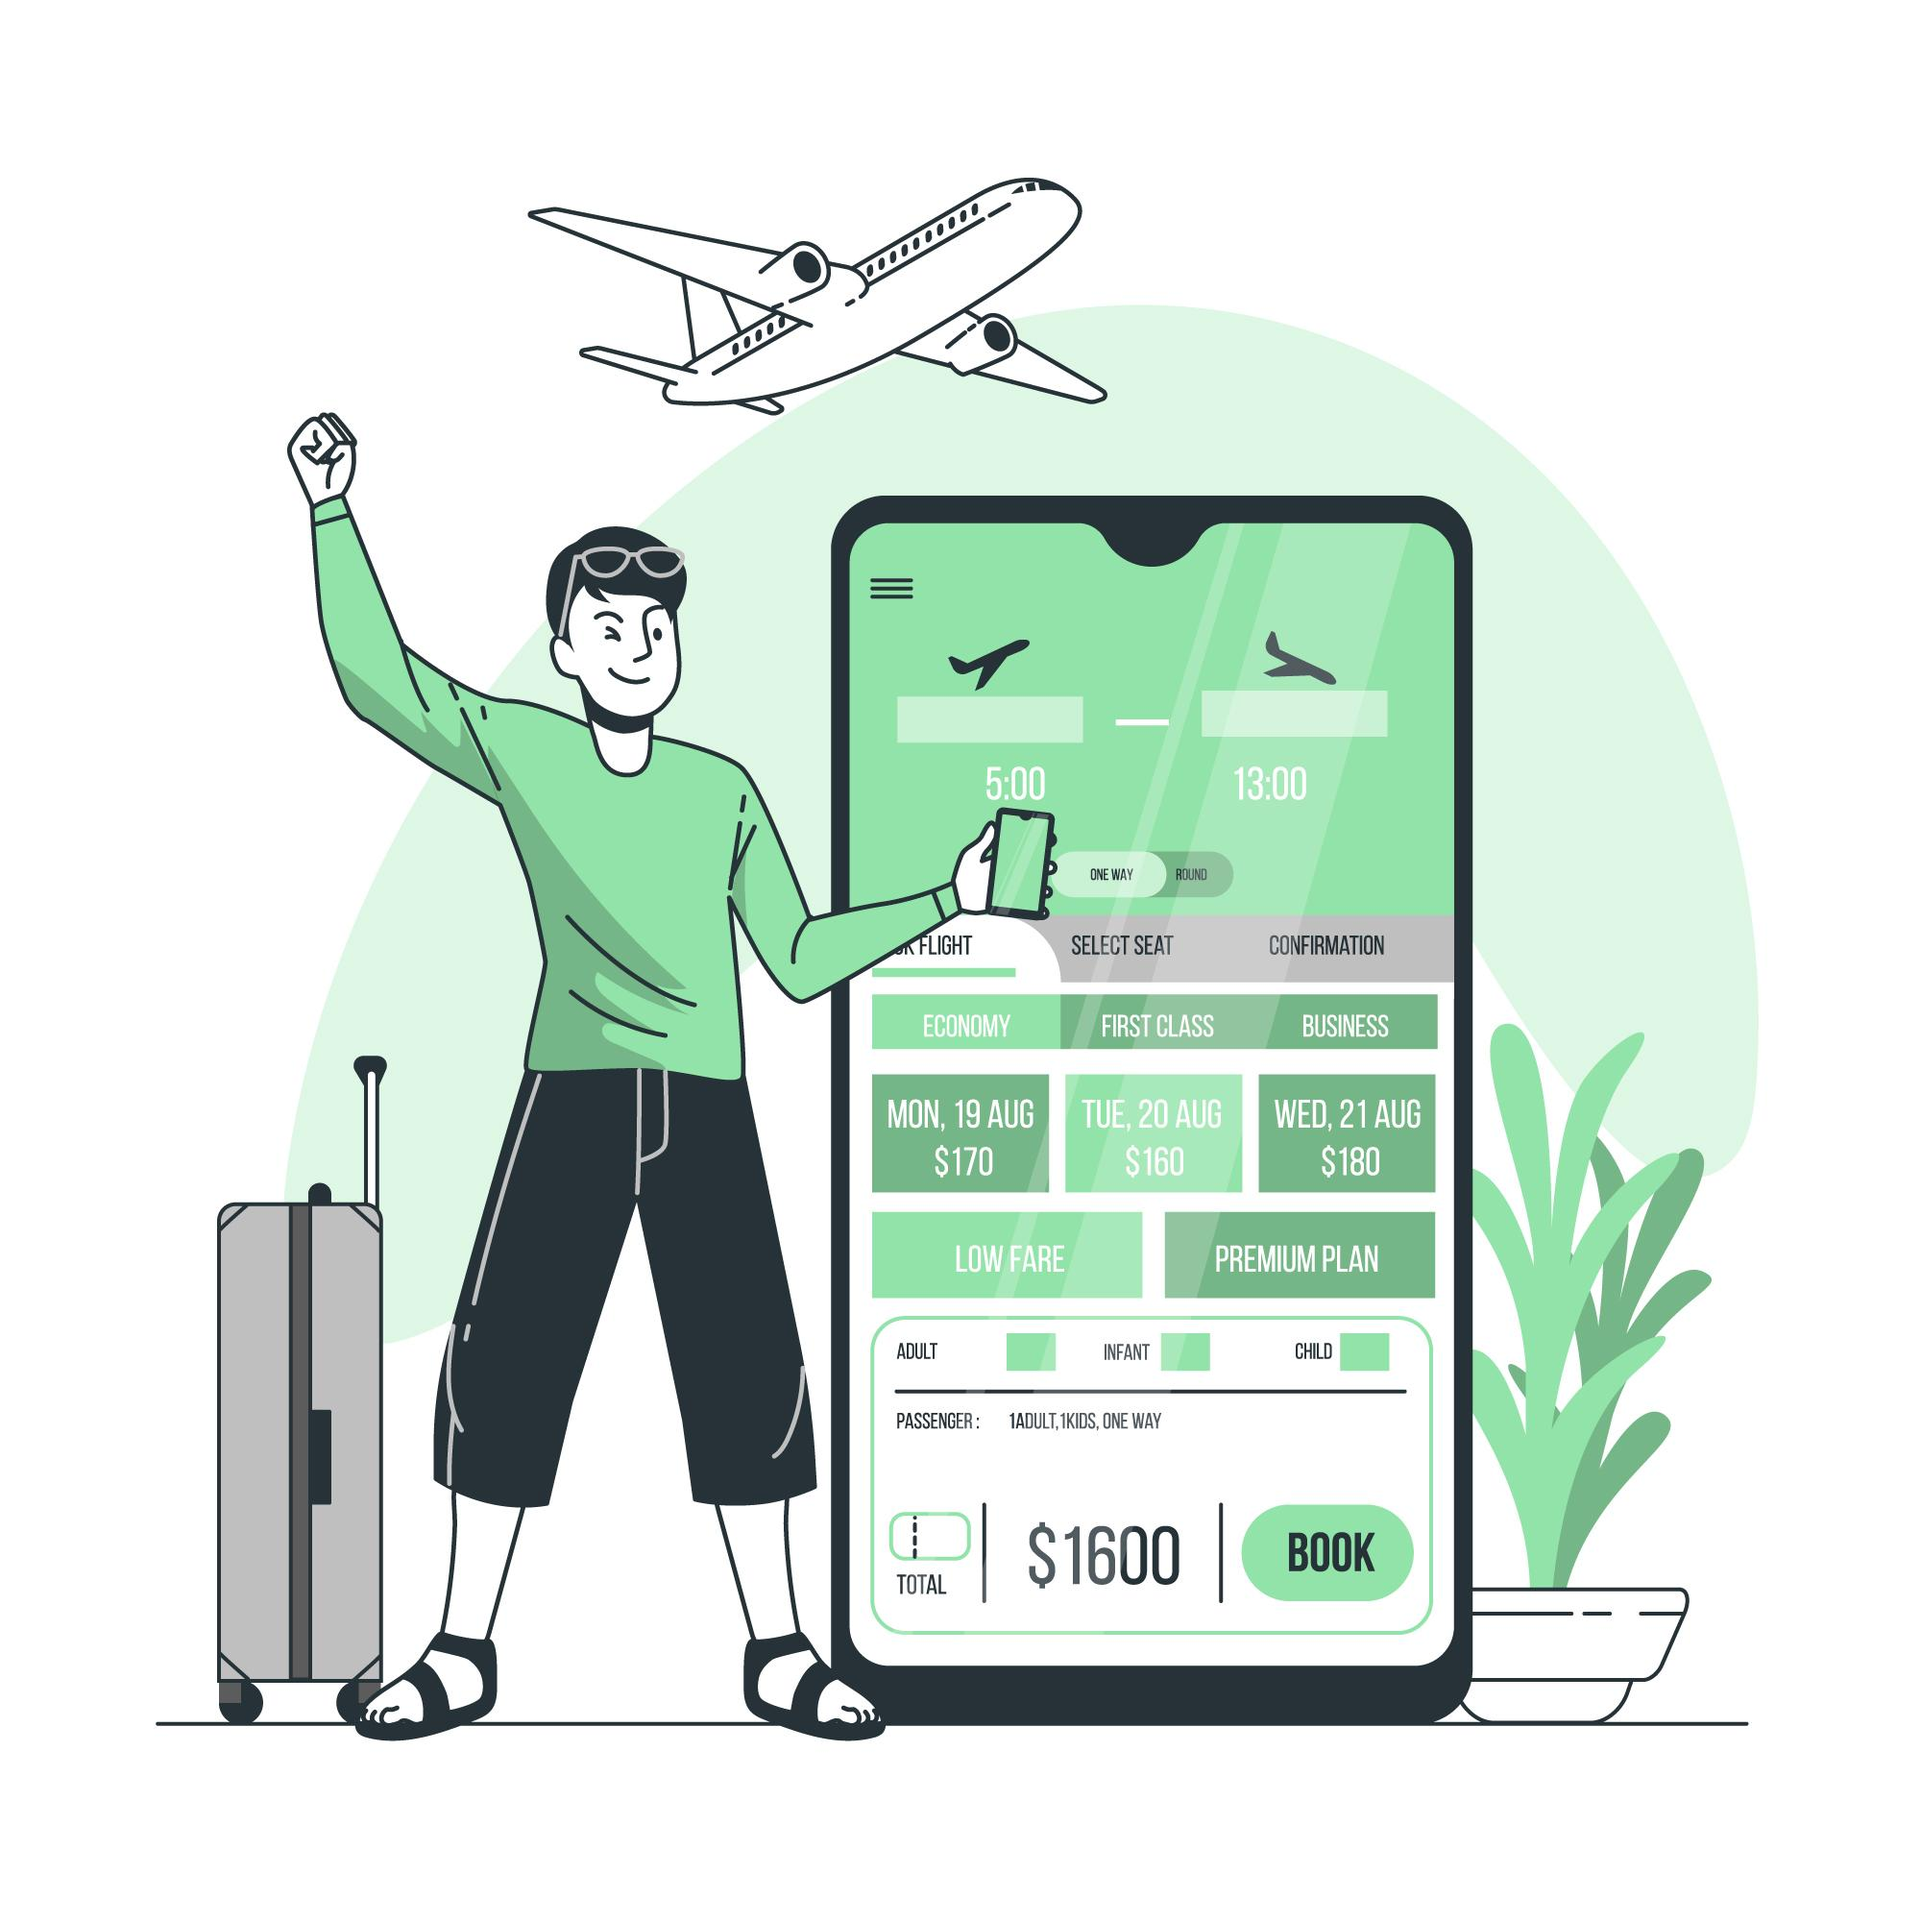
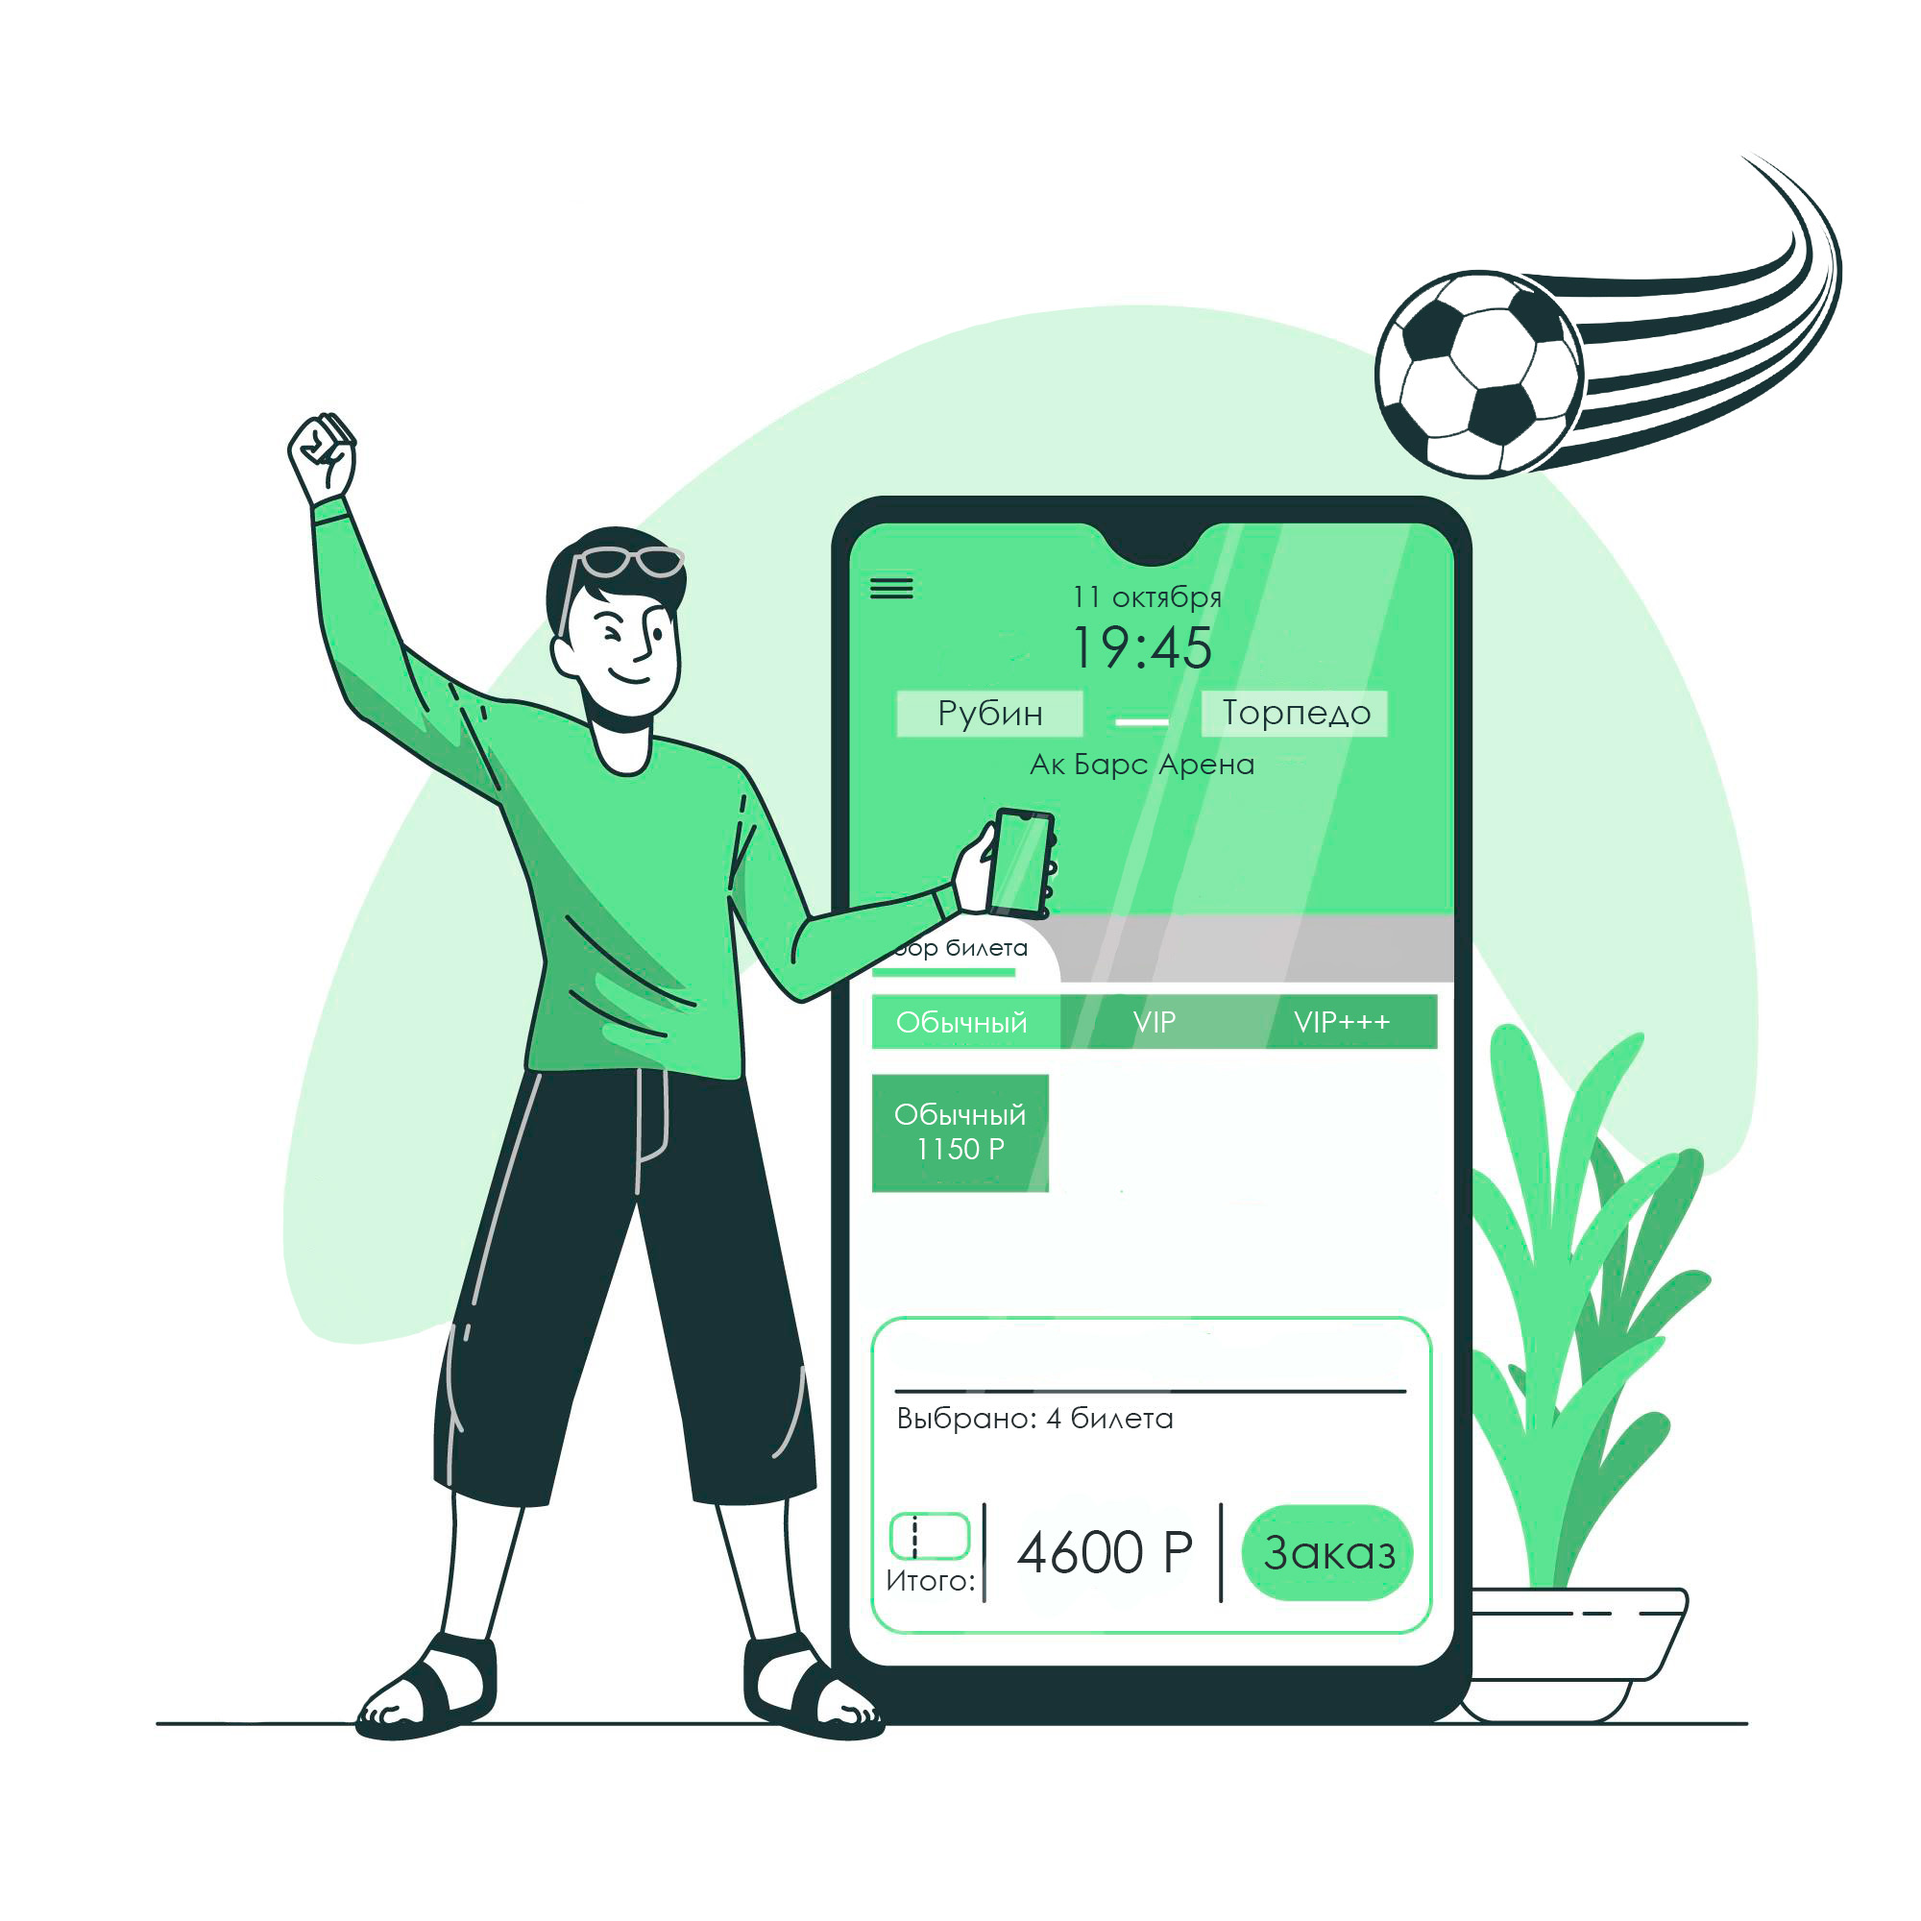
images

diff --git a/css/booking-form.css b/css/booking-form.css
@@ -50,7 +50,7 @@ label {
 }
 
 select.form-control {
-    border: 2px solid #45b786;
+    border: 2px solid #00a500;
     border-radius: 5px;
     height: 45px;
     font-size: 16px;
@@ -58,11 +58,11 @@ select.form-control {
 }
 
 .btn-primary {
-    background-color: #318f66;
+    background-color: #00a500;
     border: none;
     width: 100%;
 }
 
 .btn-primary:hover {
-    background-color: #246d4d;
+    background-color: #00a500;
 }

diff --git a/css/general.css b/css/general.css
@@ -8,7 +8,7 @@
     min-height: 100vh; /* Ensure the body takes up at least the full viewport height */
   }
   header {
-    background-color: #369269;
+    background-color: #00a300;
     color: #1a2e35;
     text-align: center;
     padding: 3px;

diff --git a/aboutUs.php b/aboutUs.php
@@ -10,10 +10,10 @@
             <p>Мы разрабатываем инновационное решение для организации, управления и анализа футбольных турниров. Наша система объединяет команды, тренеров, игроков, судей и болельщиков</p>
 
             <h2>Кто мы?</h2>
-            <p>EasyFly - ведущий поставщик авиационных услуг, специализирующийся на предоставлении широкого спектра услуг от различных авиакомпаний. Наша команда экспертов в области путешествий неустанно работает над тем, чтобы предоставить вам наилучшие впечатления от путешествия.</p>
+            <p>Система "МойФутбол" - информационная система, используемая администрацией Премьер-лиги, аналитиками, главными тренерами команд, посетителями а также продавцами, предоставляющими доступ к быстрому заказу билетов на матчи или спортивной атрибутики.</p>
 
             <h2>Наша миссия</h2>
-            <p>Чтобы сделать авиаперелеты доступными, удобными и приятными для всех.</p>
+            <p>Предоставлять быстрый доступ к любой интересующей и актуальной информации, касающейся футбольной лиги. Более того, мы стремимся сделать процесс оформления билетов на матчи максимально быстрым и простым.</p>
 
             <h2>Наше видение</h2>
             <p>Мы стремимся сделать управление футбольными соревнованиями простым, прозрачным и эффективным, предоставляя современный инструмент для развития спорта.</p>
@@ -42,10 +42,8 @@
           </section>
 
             <div class="social-media">
-                <a href="#"><img src="images/facebook.png" alt="Facebook"></a>
-                <a href="#"><img src="images/twitter.png" alt="Twitter"></a>
-                <a href="#"><img src="images/instagram.png" alt="Instagram"></a>
-                <a href="#"><img src="images/linkedin.png" alt="LinkedIn"></a>
+                <a href="#"><img src="images/vk.png" alt="VK"></a>
+                <a href="#"><img src="images/tg.png" alt="Telegram"></a>
             </div>
         </div>
 

diff --git a/booking-form.php b/booking-form.php
@@ -34,6 +34,7 @@ if (isset($_POST['flight_class'])) {
 }
 
 ?>
+
 <!DOCTYPE html>
 <html lang="en">
 <head>
